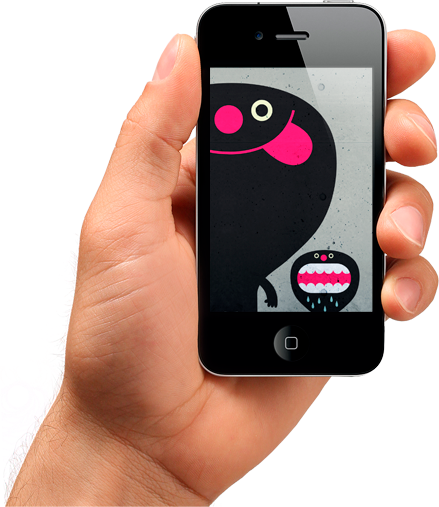
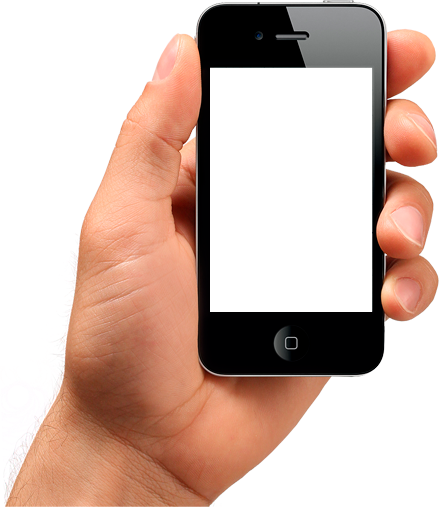
Сверстали слайдер сайта

Changed region(s): [[0.4738, 0.1183, 0.8588, 0.6213]]

diff --git a/index.html b/index.html
@@ -20,7 +20,33 @@
                     <a href="#" class="intro-btn">Download</a>
                 </div>
             </div>
-            <div class="slider">slider</div>
+            <div class="slider">
+                <button class="slider-arrow slider-prev"></button>
+                <button class="slider-arrow slider-next"></button>
+
+                <ul class="slider-list">
+                    <li class="slider-item active">
+                        <img src="./images/slide-1.jpg" alt="slide-1" class="slider-img">
+                        <h3 class="slider-title">Appz Theme</h3>
+                        <p class="slider-text">Lorem ipsum dolor sit amet, omnis euismod indoctum mel.</p>
+                    </li>
+                    <li class="slider-item">
+                        <img src="./images/slide-2.jpg" alt="slide-2" class="slider-img">
+                        <h3 class="slider-title">Easy To Use</h3>
+                        <p class="slider-text">Lorem ipsum dolor sit amet, omnis euismod indoctum mel.</p>
+                    </li>
+                    <li class="slider-item">
+                        <img src="./images/slide-3.jpg" alt="slide-3" class="slider-img">
+                        <h3 class="slider-title">Amazing Design</h3>
+                        <p class="slider-text">Lorem ipsum dolor sit amet, omnis euismod indoctum mel.</p>
+                    </li>
+                    <li class="slider-item">
+                        <img src="./images/slide-4.jpg" alt="slide-4" class="slider-img">
+                        <h3 class="slider-title">Dashboard View</h3>
+                        <p class="slider-text">Lorem ipsum dolor sit amet, omnis euismod indoctum mel.</p>  
+                    </li>
+                </ul>
+            </div>
             <div class="get-your-free">Get your free</div>
         </div>
     </div>

diff --git a/style.css b/style.css
@@ -71,9 +71,80 @@ body {
   
 
 .slider {
-    height: 208px;
-    background-color: #eee;
     margin-bottom: 61px;
+    margin-top: -44px;
+    position: relative;
+}
+
+.slider-arrow {
+    position: absolute;
+    top: 90px;
+    width: 37px;
+    height: 57px;
+    cursor: pointer;
+    background-repeat: no-repeat;
+    border: none;
+    background-color: transparent;
+}
+
+.slider-prev {
+    background-image: url(./images/slider-prev.png);
+    left: -90px;
+}
+
+.slider-next {
+    background-image: url(./images/slider-next.png);
+    right: -90px;
+}
+
+.slider-list {
+    display: flex;
+    justify-content: space-between;
+}
+
+.slider-item {
+    background-color: #fff;
+    padding: 20px 20px 0;
+    width: 220px;
+}
+
+.slider-img, .slider-title, .slider-text {
+    opacity: 0.5;
+}
+
+.slider-img {
+    width: 100%;
+    margin-bottom: 12px;
+}
+
+.slider-title {
+    font-size: 16px;
+    color: #171717;
+    margin-bottom: 26px;
+    position: relative;
+}
+
+.slider-title::after {
+    content: "";
+    position: absolute;
+    bottom: -10px;
+    left: 0;
+    right: 0;
+    height: 2px;
+    background-color: #c6c6c6;
+}
+
+.slider-text {
+    font-size: 12px;
+    color: #5f5f5f;
+}
+
+.slider-item.active * {
+    opacity: 1;
+}
+
+.slider-item.active .slider-title::after {
+    background-color: #f5227d;
 }
 
 .get-your-free {
